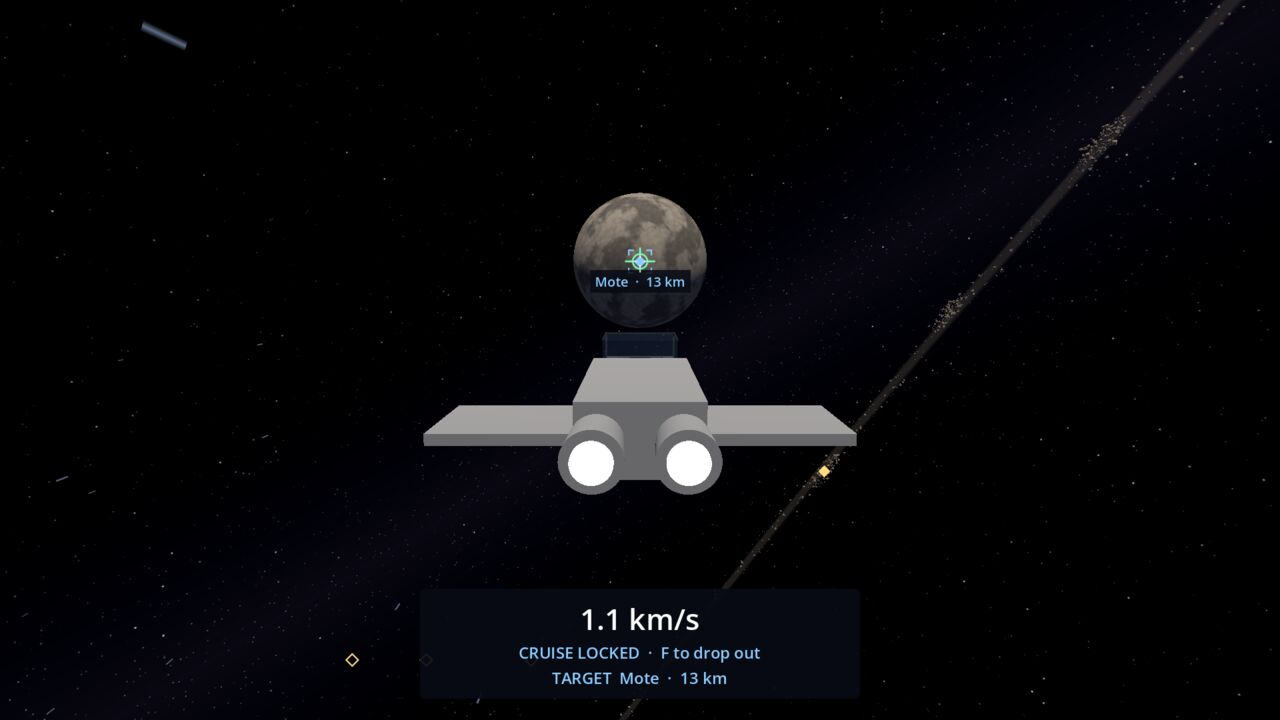
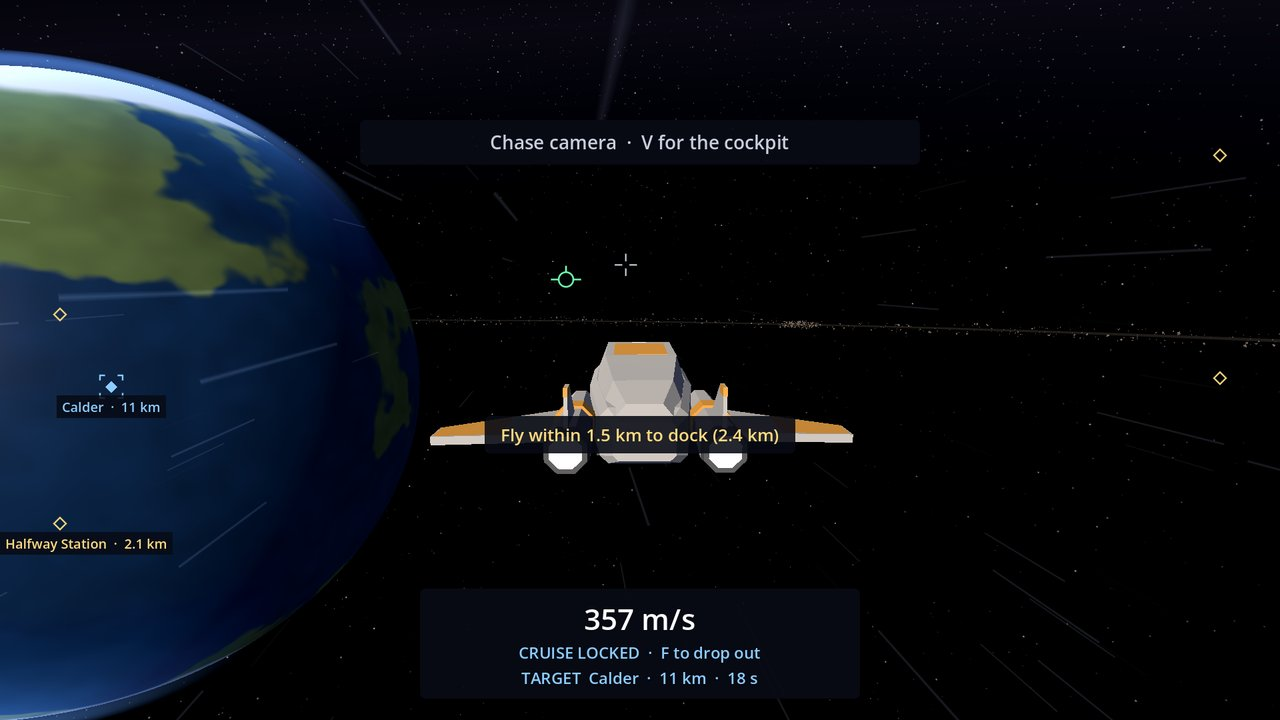
Ship model docs, wiki and checks: design doc, assets list, changelog note, Ships page, new pictures
A unit test proves the model sits inside the collision shapes, never below the underside, and is single sided with
clear glass that casts no shadow. The Blender reference scene shows the new collision shapes.

Claude-Session: https://claude.ai/code/session_01E8LVCK4ZTsdMYd6K2u2MSc

diff --git a/tools/blender/ship_reference.py b/tools/blender/ship_reference.py
@@ -2,7 +2,7 @@
 
 Run it inside Blender (Scripting tab, or `blender --python tools/blender/ship_reference.py`). It adds a collection
 called "Reference" that is never exported: the ship's collision shapes (what the physics, docking and the bay floor
-use), the greybox ship and cockpit it replaces, the pilot's eye, the dashboard screen and the nav computer screen, and
+use), the greybox ship and cockpit the first model replaced (kept for its proportions), the pilot's eye, the dashboard screen and the nav computer screen, and
 two cameras that see exactly what the game's cockpit and chase cameras see. Running it again replaces the collection.
 It also makes the two collections the export takes, "Exterior" and "Cockpit", if they are missing.
 
@@ -17,9 +17,10 @@ import bpy
 from mathutils import Matrix, Vector
 
 # Godot positions (x right, y up, z back) of what the model must fit round.
-HULL_SHAPE = ((0.0, 0.0, 0.0), (4.0, 2.4, 12.0))
-CANOPY_SHAPE = ((0.0, 1.575, -3.95), (3.2, 0.75, 2.9))
+HULL_SHAPE = ((0.0, 0.0, -0.6), (4.0, 2.4, 13.2))
+UPPER_SHAPE = ((0.0, 1.55, 0.8), (3.4, 0.7, 10.6))
 WING_SHAPE = ((0.0, -0.4, 2.5), (14.0, 0.4, 4.0))
+POD_SHAPES = (((-2.25, -0.05, 3.85), (1.44, 1.44, 6.5)), ((2.25, -0.05, 3.85), (1.44, 1.44, 6.5)))
 EYE = (0.0, 1.15, -3.54)
 CHASE_ANCHOR = (0.0, 5.3, 24.0)
 CHASE_LOOK_DOWN = 9.0
@@ -167,8 +168,10 @@ def build():
 
 	shapes = collection("Ref_CollisionShapes", ref)
 	box("Ref_HullShape", shapes, *HULL_SHAPE)
-	box("Ref_CanopyShape", shapes, *CANOPY_SHAPE)
+	box("Ref_UpperShape", shapes, *UPPER_SHAPE)
 	box("Ref_WingShape", shapes, *WING_SHAPE)
+	for i, shape in enumerate(POD_SHAPES):
+		box("Ref_PodShape%d" % i, shapes, *shape)
 
 	grey = collection("Ref_Greybox", ref)
 	for name, centre, size in GREYBOX_SHIP:

diff --git a/DESIGN.md b/DESIGN.md
@@ -48,6 +48,16 @@ Three starter ships share a price and tier. Each leans toward a play style, but 
 
 Upgrades (cargo, engines, scanners, shields, mining laser) let any ship cover its weak spots. Names and exact stats are placeholders.
 
+**The test ship's model** (placeholder, 2026-10-25): the Hauler's look from the owner's reference pictures, made in
+Blender by `tools/blender/hauler_model.py` and kept in the owner's `hauler_v002.blend`. Small and simple: light grey
+with orange panels and a few glowing strips, a flat windscreen sloping down to the nose in front of a taller back half,
+flat side windows and a flat roof window, two engine pods with glowing nozzles, short swept wings; about 14 m long and
+14 m across. Inside, a slim dark dashboard low across the bottom of the view (the dashboard screen where it always
+was) and side consoles low in the corners, with no frame bars in the pilot's view. About 700 triangles outside and
+1,100 in the cockpit, one mesh per material. The model only changes the look: the collision shapes follow it (a box
+for the taller back half and one per engine pod), but mass, centre of mass and inertia stay as approved and the
+underside stays at 1.2 m below the centre, so flying, docking and the floor berth are unchanged.
+
 ## Flight and camera
 
 Flight uses one Newtonian physics model with a flight assist toggle. It should never feel arcade-like.
@@ -132,11 +142,11 @@ The values live in `game/camera/camera_tuning.tres` (shared by every ship). Wher
 | Value | First value | What it does |
 | --- | --- | --- |
 | Field of view | 60° (50° to 90°), vertical; 60° is about 90° across on a 16:9 screen | Player setting, both cameras. Wider views stretch round things near the screen's edges, so planets look oval there |
-| Pilot's eye | 1.15 m up, 3.54 m forward of the greybox's centre | Greybox ship scene; set so the cockpit window frames the view at 60° as it did at 75° |
+| Pilot's eye | 1.15 m up, 3.54 m forward of the ship's centre | Ship scene; set with the 60° view (PR #6), and the cockpit model is built round it |
 | Head sway | 1.2 mm per m/s² of push, at most 6 cm, eased over 0.15 s | 4.8 cm back at full main engine |
 | Engine rumble | 0.12° at full thrust | Times the shake setting |
 | Bump wobble | Up to 2° for a 6 m/s knock, gone in about 0.6 s; knocks under 0.3 m/s ignored | Times the shake setting |
-| Chase camera place | 5.3 m up, 24 m behind, looking 9° down | Greybox ship scene |
+| Chase camera place | 5.3 m up, 24 m behind, looking 9° down | Ship scene |
 | Chase lag | 0.18 s (half with reduce motion) | 35°/s yaw shows as about 6° of swing |
 | Chase lean (assist off) | Half the drift angle, at most 25°, from 5 m/s, full by 40 m/s, eased over 0.6 s; fades out as the drift goes from sideways to straight backwards | Keeps drift readable, never flips side to side in a spin |
 | Chase clearance | 0.5 m from anything in the way, eases back out over 0.5 s | No clipping |
@@ -523,6 +533,11 @@ The core game comes first. These ideas follow once the first playable is fun, ro
 
 Newest first. Each line: date, the decision, who made it.
 
+- 2026-10-25: The test ship gets a placeholder model in place of the greybox: small, light grey with orange panels, a
+  flat windscreen sloping down to the nose in front of a taller back half, flat side and roof windows with no frame bars
+  in the pilot's view, and a slim dashboard low across the bottom (William's references and notes; he turned down a
+  curved bubble canopy and approved v002) (owner). The collision shapes follow the new shape; mass, centre of mass,
+  inertia, the eye, the chase camera and the underside stay where they were (default, Claude).
 - 2026-10-25: Four conveniences join the first playable: the time to arrival next to the distance while the cruise
   drive is locked on, an F12 screenshot key, holding the right mouse button to look round the cockpit without steering,
   and a key that rolls the ship upright against the nearest planet or moon. William approved them from a list of

diff --git a/tools/blender/README.md b/tools/blender/README.md
@@ -4,10 +4,17 @@ The ship and cockpit models are made in Blender and loaded by the game as glTF (
 These scripts keep a new model lined up with what the game already uses, so it drops in without changing how the ship
 flies, docks or looks through the cameras.
 
-- `ship_reference.py` adds a "Reference" collection (never exported) with the ship's collision shapes, the greybox it
-  replaces, the pilot's eye, the dashboard and nav computer screens, and cameras that see what the game's cockpit and
+- `ship_reference.py` adds a "Reference" collection (never exported) with the ship's collision shapes, the greybox the
+  first model replaced, the pilot's eye, the dashboard and nav computer screens, and cameras that see what the game's cockpit and
   chase cameras see (60° tall, 1920×1080). It also makes the "Exterior" and "Cockpit" collections the export takes.
-- `export_ship.py` writes `<ship>_exterior.glb` and `<ship>_cockpit.glb` from those two collections.
+- `hauler_model.py` builds the Hauler's placeholder model into those collections, and checks that nothing in the
+  cockpit pokes through its walls, floor or glass (it prints a `COCKPIT CLIPS` line for each part that does).
+- `export_ship.py` writes `<ship>_exterior.glb` and `<ship>_cockpit.glb` from those two collections, joining the parts
+  into one mesh per material (named like `Exterior_Glass`) so the game draws few of them.
+
+In Blender's Python console, with this folder on `sys.path`: `ship_reference.build()`, `hauler_model.build()`, then
+`export_ship.export("<repo>/game/ship/models", "hauler")`. Blender's `bpy` module from PyPI runs the same scripts
+headless, which is how they are checked without a Blender window.
 
 The owner's `.blend` files are never overwritten: each change is saved as a new numbered version
 (`hauler_v001.blend`, `hauler_v002.blend`, ...).
@@ -19,14 +26,15 @@ y forward, z up), in metres, from the ship's centre.
 
 | What | Where / how big | Why |
 | --- | --- | --- |
-| Collision: hull | Centre (0, 0, 0), 4 wide, 12 long, 2.4 tall | Flight, bumps and the bay floor berth use these shapes, not the model; the ship's underside is z = -1.2 |
-| Collision: canopy | Centre (0, 3.95, 1.575), 3.2 wide, 2.9 long, 0.75 tall | |
+| Collision: hull | Centre (0, 0.6, 0), 4 wide, 13.2 long, 2.4 tall | Bumps and the bay floor berth use these shapes, not the model; the ship's underside is z = -1.2. Mass, centre of mass and inertia are set by hand, so the shapes can follow a new model without changing how it flies |
+| Collision: back half | Centre (0, -0.8, 1.55), 3.4 wide, 10.6 long, 0.7 tall | |
 | Collision: wings | Centre (0, -2.5, -0.4), 14 wide, 4 long, 0.4 tall | |
+| Collision: engine pods | Centres (±2.25, -3.85, -0.05), 1.44 wide and tall, 6.5 long | |
 | Pilot's eye | (0, 3.54, 1.15) | Approved framing at 60° (PR #6) |
 | Chase camera | (0, -24, 5.3), looking along +Y and 9° down | Approved framing (PR #6) |
 | Dashboard screen | Centre (0, 5.146, 0.665), 1.0 × 0.34, tilted back 22.9° | Speed, assist and target text sit on it |
 | Nav computer screen | Centre (0, 5.141, 0.667), 1.6 × 0.34, same tilt | Tab turns the middle screen into the nav computer, so the dash needs a flat face at least this big, just behind it |
-| Cockpit window | The greybox pillars at x = ±1.6 and roof at z = 1.95 frame the view | Keep the frame lines near these so the cockpit view stays as approved |
+| Cockpit window | No frame bars in the pilot's view (owner, 2026-10-25); flat panes only, never a curved bubble | The owner's call on v001 |
 
 The visible model should stay close to the collision shapes (a little inside is fine, nothing big sticking out), so
 what the player sees matches what bumps. Faces are single sided: the exterior hull is never seen from the cockpit

diff --git a/README.md b/README.md
@@ -80,7 +80,7 @@ CI runs all five on every pull request (the wiki check in the Wiki workflow, whi
 | `game/core/` | The `Game` autoload (world seed, random streams, in-game clock), the `Events` autoload (the event bus: docking, landing, saving) and launch options. |
 | `game/flight/` | The flight model, the cruise drive, orbit, the ship's input, the pilot's controls and their tuning. |
 | `game/arrival/` | Docking and landing: ports, the way in (the ship flying itself to its berth), the one arrival function and their tuning. |
-| `game/ship/` | The greybox ship, its cockpit and its tuning. |
+| `game/ship/` | The test ship, its cockpit and its tuning; `models/` holds their glTF models (made from `tools/blender/`). |
 | `game/camera/` | The cockpit and chase cameras, camera shake and their tuning. |
 | `game/system/` | The solar system scene: the planet, its base and landing pad, the moon, the station and its docking bay, the seeded asteroid belt and their tuning. |
 | `game/world/` | The floating origin, space dust, the starfield sky, buoys and the orbit line round a planet. |
@@ -90,7 +90,7 @@ CI runs all five on every pull request (the wiki check in the Wiki workflow, whi
 | `game/main/` | The first scene. |
 | `game/debug/` | The smoke test autopilot and the F3 overlay. |
 | `test/unit/` | Unit tests. |
-| `tools/` | Test, changelog and wiki scripts. |
+| `tools/` | Test, changelog and wiki scripts; `blender/` builds and exports the ship models in Blender (its `README.md` says how). |
 | `addons/gut/` | The Gut test framework (tests only, never shipped). |
 | `docs/wiki/` | The player wiki, one page per file, published to the [GitHub wiki](https://github.com/ggbillyjoe3526/project-praesepe/wiki) on every merge to `main`. Its `README.md` has the conventions. |
 | `changelog.d/` | One changelog note per pull request, gathered into `CHANGELOG.md` at release. |

diff --git a/ASSETS.md b/ASSETS.md
@@ -9,5 +9,14 @@ OFL assets; no GPL code in the game.
 | Anonymous Pro, Courier Prime, Lobster Two | Fonts of Gut's test runner (`addons/gut/fonts/`, licence in `addons/gut/fonts/OFL.txt`) | Bundled with Gut | SIL OFL 1.1 | See `addons/gut/fonts/OFL.txt` | No |
 | Inno Setup 6 | Builds the Windows installer; its setup program is inside the `Windows-Setup.exe` download (`installer/ProjectPraesepe.iss`) | https://jrsoftware.org/isinfo.php, installed by the release workflow | Inno Setup License (free, commercial use allowed) | Jordan Russell, Martijn Laan | Installer only |
 
+## Models made for the game
+
+Made in Blender for this game, by Claude through the Blender tools (the build scripts are in `tools/blender/`) or by the
+owner. They are the owner's, like the code; listed so every model is accounted for.
+
+| Name | What it is | Made in | Source files | Ships in the game? |
+| --- | --- | --- | --- | --- |
+| Hauler placeholder model | The test ship outside (`game/ship/models/hauler_exterior.glb`) and its cockpit (`game/ship/models/hauler_cockpit.glb`); placeholder, art style still open | Blender 5.2 (2026-10-25), from `tools/blender/hauler_model.py` and the owner's reference pictures | The owner's `hauler_v002.blend`; rebuilt by running `ship_reference.py`, `hauler_model.py` and `export_ship.py` | Yes |
+
 Code reused from the owner's own games (katanashotgun, Airsoft-Next) is the owner's and is noted in each file's header,
 not here.

diff --git a/docs/wiki/Ships.md b/docs/wiki/Ships.md
@@ -2,8 +2,10 @@
 
 ## The test ship
 
-For now you fly one simple test ship (a stand-in model, with no name yet) while the flying is tuned. It has a
-cockpit with a dashboard screen, two engines and short wings. It can't carry cargo or take damage yet.
+For now you fly one small test ship while the flying is tuned: light grey with orange panels, a flat windscreen
+sloping down to its nose, two engine pods and short swept wings. Its model is a simple placeholder. Inside, a slim
+dashboard runs across the bottom of the view and the windows have no frame bars in the way. It can't carry cargo or
+take damage yet.
 
 ![The test ship, docked at Halfway Station](images/docked-chase.jpg)
 
@@ -17,7 +19,7 @@ cockpit with a dashboard screen, two engines and short wings. It can't carry car
 | Braking thrusters | 25 m/s² |
 | Side and up/down thrusters | 30 m/s² |
 | Turn rate, full stick | nose up/down 50°/s, left/right 35°/s, roll 100°/s |
-| Wingspan | about 17 m |
+| Size | about 14 m long and 14 m across the wings |
 
 ### Cruise drive
 

diff --git a/changelog.d/ship-model.md b/changelog.d/ship-model.md
@@ -1,0 +1,5 @@
+### A new look for the test ship
+- The grey boxes are gone: the test ship now has a simple model of its own, light grey with orange panels, a flat
+  windscreen sloping down to the nose, two engine pods with glowing nozzles and short swept wings.
+- A new cockpit to match: a slim, dark dashboard low across the bottom of the view, with no frame bars across the
+  window. It flies, docks and lands exactly as before.
